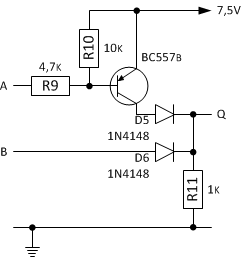
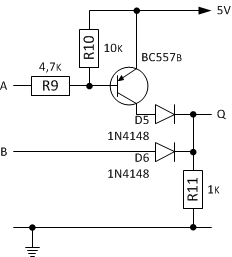
Update Indicator

diff --git a/pages/kontrollanzeige_2.md b/pages/kontrollanzeige_2.md
@@ -17,7 +17,7 @@ Grundsätzlich funktionieren die drei für die Ladekontrollanzeige verwendeten E
 - Wenn die Spannung am _Trigger_-Pin 2 weniger als die Hälfte der Referenzspannung vom _Control Voltage_-Pin 5 des IC's beträgt, wird das interne RS-FlipFlop gesetzt und der Ausgang _Output_-Pin 3 geht auf _High_ (Spannung erreicht fast Vcc: Kontolllampe leuchtet).
 - Wenn die Spannung am _Treshold_-Pin 6 mehr als die Referenzspannung vom _Control Voltage_-Pin 5 beträgt, wird das interne RS-FlipFlop zurückgesetzt und der Ausgang Pin 3 geht in den _Low_-Zustand (Spannung erreicht fast 0V: Kontolllampe erlischt).
 
-Der Pin _Control Voltage_ benötigt eine stabile Spannung, um die korrekten Umschaltpunkte für die zwei internen Komparatoren, welche zusätzlich mit den Pins _Trigger_ und _Treshold_ verbunden sind, zu erhalten. Eine mit Vorwiderstand angeschlossene Zenerdiode an Pin _Control Voltage_ könnte eine genügend genaue Spannungsreferenz liefern. Die integrierten Widerstände vom Timer sind jedoch genau genug, wenn eine stabile Versorgungsspannung genutzt wird. Die Referenzspannung am Pin _Control Voltage_ hat im unbeschalteten Zustand 2/3 von Vcc. Mit Vcc = 7,5 beträgt die Referenzspannung Vref = 5V.
+Der Pin _Control Voltage_ benötigt eine stabile Spannung, um die korrekten Umschaltpunkte für die zwei internen Komparatoren, welche zusätzlich mit den Pins _Trigger_ und _Treshold_ verbunden sind, zu erhalten. Eine mit Vorwiderstand angeschlossene Zenerdiode an Pin _Control Voltage_ könnte eine genügend genaue Spannungsreferenz liefern. Die integrierten Widerstände vom Timer sind jedoch genau genug, wenn eine stabile Versorgungsspannung genutzt wird. Die Referenzspannung am Pin _Control Voltage_ hat im unbeschalteten Zustand 2/3 von Vcc. Mit Vcc = 5,1V beträgt die Referenzspannung Vref = 3,4V.
 
 Der Einsatz des Kondensator C5 schafft Abhilfe gegen Störungen beim Wechsel vom Zustand _High_ in den Zustand _Low_. Aufgabe der PNP-Schaltstufe war es, die Versorgungsspannung zu schalten. Der Ausgangsstrom des _Timer_-Bausteins reicht ausreicht, um den Kontrollanzeige zum Leuchten zu bringen. Das Datenblatt verrät, dass der maximale Ausgangstrom beim TLC555 bis zu 15 mA betragen darf. Sollte der Ausgang sogar gegen Masse oder die Betriebsspannung _kurzgeschlossen_ sein, fließt der eben genannte Strom aus den Ausgangspin und die Spannung bricht zusammen bzw. es dürfen bis zu 150mA in den Ausgangspin fließen. 
 
@@ -27,27 +27,27 @@ Der Spannungsteiler bestehend aus R1 und R2+R3 wird so ausgelegt und an _Treshol
 
 ![Kontrollanzeige 555 Abb.2](../images/Kontrollanzeige_mit_555_2.png)
 
-Der Widerstand R3 wird einfach festgelegt. Betreffs der Größe vom Widerstand R3 kommt es ganz auf die Anwendung an. In der Praxis eignen sich gut Werte von 10k bis 100k. Der Widerstand R3 wird mit 33k festgelegt. Die Untere Schaltschwelle soll bei ca. 11,9V und die obere bei ca. 13,4V liegen. Der Widerstand R2 wird Anhand der Hysterese (13,4V - 11,9V) nach folgender Formel berechnet:
+Der Widerstand R3 wird einfach festgelegt. Betreffs der Größe vom Widerstand R3 kommt es ganz auf die Anwendung an. In der Praxis eignen sich gut Werte von 10k bis 100k. Der Widerstand R3 wird mit 20k festgelegt. Die untere Schaltschwelle soll bei ca. 11,9V und die obere bei ca. 13,4V liegen. Der Widerstand R2 wird Anhand der Hysterese (13,4V - 11,9V) nach folgender Formel berechnet:
 
     R2 = R3 * (2 * V0(low) / V0(high) - 1)
-    R2 = 33k * (2 * 11,9V / 13,4V - 1)
-    R2 = 25,6k
+    R2 = 20k * (2 * 11,9V / 13,4V - 1)
+    R2 = 15,2k
 
-Der nächst passende Wert für R2 beträgt 27k. Der Widerstand R1 wird unter Verwendung der Referenzspannung (Vref = 5V) sowie R2 und R3 über die folgende Formel berechnet:
+Der nächst passende Wert für R2 beträgt 15k. Der Widerstand R1 wird unter Verwendung der Referenzspannung (Vref = 3,4V) sowie R2 und R3 über die folgende Formel berechnet:
 
     R1 = R3 * (2 * V0(low) / Vref - 1) - R2
-    R1 = 33k * (2 * 11,9V / 5V - 1) - 27k
-    R1 = 97,1k
+    R1 = 20k * (2 * 11,9V / 3,4V - 1) - 15k
+    R1 = 103,8k
 
-Für den Widerstand R1(+R6) wird ein Wert von 100k(+1k) genommen, dieser definiert mit den oben genannten Widerständen R2 und R3 die nun _tatsächlichen_ Umschaltpunkte 12,1V (_Low_) und 13,3V (_High_). Für die Bestimmung der realen Umschaltpunkte können folgende Formeln genutzt werden:
+Für den Widerstand R1 wird ein Wert von 103,3k (R1a + R1b = 100k + 3,3k) genommen. Dieser definiert mit den oben genannten Widerständen R2 und R3 die nun _tatsächlichen_ Umschaltpunkte 11,8V (_Low_) und 13,4V (_High_). Für die Bestimmung der realen Umschaltpunkte können folgende Formeln genutzt werden:
 
     V(low) = Vref * (R1 + R2 + R3) / (R2 + R3)
-    V(low) = 5V * (100k + 27k + 33k) / (27k + 33k)
-    V(low) = 12,1V
+    V(low) = 3,4V * (103,3k + 15k + 20k) / (15k + 20k)
+    V(low) = 11,8V
 
     V(high) = Vref / 2 * (R1 + R2 + R3) / R3
-    V(high) = 5V / 2 * (100k + 27k + 33k) / 33k
-    V(high) = 13,3V
+    V(high) = 3,4V / 2 * (103,3k + 15k + 20k) / 20k
+    V(high) = 13,4V
 
 ## Erweiterung Öldruckkontrollanzeige
 Die Kontrollanzeige _La1_ soll (wie bei der Diskret aufgebauten Schaltung auch) bei Verlust des Öldrucks ebenfalls zur Anzeige kommen. Die Anschaltung des Sensors (Schalten der Masse bei Öldruckverlust) erfolgt entweder einfach an dem _Trigger_ Eingang vom _Timer_-Baustein oder am Ausgang mittels geeigneter Logik bestehend aus Transisor und Dioden (abgek. [DTL](http://de.wikipedia.org/wiki/Diode-Transistor-Logik)).
